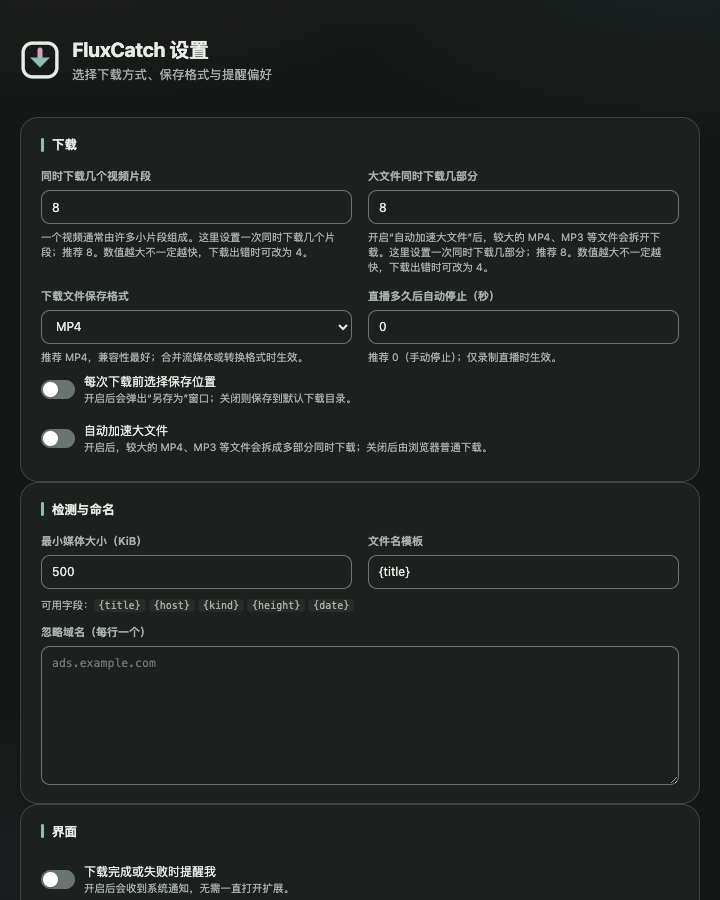
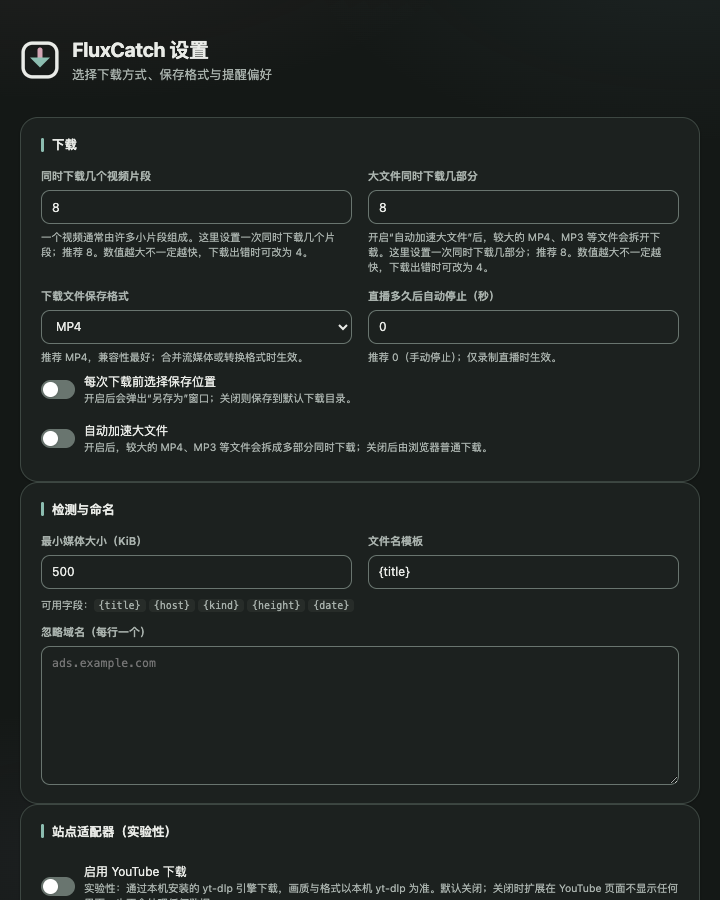
Give the repository a proper storefront
- README: centered brand header with tagline, shields badges, feature
  highlights, site-adapter support table, refreshed screenshots from the
  current UI (tagline, SVG toolbar icons, site-adapter settings), quick
  start, mermaid architecture diagram, and a privacy summary.
- CI workflow: run the extension unit/UI-static tests and manifest
  validation on every push and pull request.
- docs/assets: refresh popup/sidepanel/options screenshots, add the HLS
  download dialog shot and the icon used by the README header.

Changed region(s): [[0.0611, 0.9644, 0.9472, 1.0], [0.0611, 0.9022, 0.2444, 0.9333]]

diff --git a/README.md b/README.md
@@ -1,70 +1,139 @@
+<div align="center">
+
+<img src="docs/assets/icon.png" width="96" alt="FluxCatch logo" />
+
 # FluxCatch
 
-FluxCatch is a local-first Manifest V3 Chrome extension that detects media resources requested by the current page and lets the user save selected files locally. An optional macOS native host adds parallel Range transfers, HLS processing, remuxing, and audio extraction.
+**Keep What You See.**
+
+A local-first Manifest V3 Chrome extension that detects the media a page is
+playing and saves it cleanly — direct files, HLS and DASH streams, with an
+optional macOS native engine for parallel, resumable downloads.
+
+[![Version](https://img.shields.io/badge/version-0.2.3_beta-5E8F84?style=flat-square)](https://github.com/Blanchot-Alice/fluxcatch/releases)
+[![Chrome MV3](https://img.shields.io/badge/Chrome-Manifest_V3-8E82AD?style=flat-square&logo=googlechrome&logoColor=white)](https://developer.chrome.com/docs/extensions/develop/migrate)
+[![License: MIT](https://img.shields.io/badge/license-MIT-C78FA0?style=flat-square)](LICENSE)
+[![Platform](https://img.shields.io/badge/platform-macOS_%2B_Chrome-486D80?style=flat-square)](docs/INSTALL.md)
+[![Tests](https://img.shields.io/github/actions/workflow/status/Blanchot-Alice/fluxcatch/ci.yml?branch=main&label=tests&style=flat-square)](../../actions)
+
+</div>
+
+---
+
+## What it does
+
+FluxCatch watches what the current page actually requests — no scraping, no
+third-party services — and lists every media resource it can identify:
+progressive MP4s, HLS master/variant playlists, MPEG-DASH manifests, and the
+separate video/audio tracks used by modern players. Pick one, pick a quality,
+and the file lands in your Downloads folder.
+
+A optional native host (a small Python program running on your Mac) adds the
+heavy machinery: parallel Range transfers, HLS segment fetching, stream-copy
+merging via FFmpeg, and MP3 extraction. Everything stays on your machine.
+
+| | |
+| --- | --- |
+| 🔍 **Passive detection** | Nothing is requested until you open the popup; detection rides on the page's own traffic. |
+| 📺 **Quality selection** | HLS variants and DASH representations are listed explicitly — including the Bilibili quality ladder your logged-in account can actually play. |
+| ⚡ **Fast transfers** | The native engine splits downloads into concurrent ranges and merges with FFmpeg stream copy. |
+| 🔒 **Local-first privacy** | No telemetry, no accounts, no cloud. Cookies captured for a download only ever travel to the exact CDN URL that received them. |
+| 🛡 **DRM stays DRM** | Protected content is detected and reported, never decrypted. |
+
+## Site adapters
+
+Generic detection covers most of the web. A few sites get first-class support
+because their players need it:
+
+| Site | Status | Notes |
+| --- | --- | --- |
+| **Bilibili** | ✅ Stable | DASH video/audio pairing, opaque quality selectors, login-aware quality ladder (4K with 大会员), short-lived signed URLs kept in memory only. |
+| **Instagram** | ✅ Stable | Direct CDN links extracted from the page payload; private media downloads replay the page's own cookie to the same CDN URL. |
+| **X / Twitter** | ✅ Stable | `video_info` variants extracted in-page; best bitrate surfaced automatically. |
+| **YouTube** | 🧪 Experimental | Off by default. When enabled, the watch URL is handed to your locally installed [yt-dlp](https://github.com/yt-dlp/yt-dlp) — no YouTube URLs or credentials flow anywhere else. |
 
 ## Interface
 
-| Toolbar popup | Media workspace |
-| --- | --- |
-| ![FluxCatch toolbar popup](docs/assets/popup.png) | ![FluxCatch media workspace](docs/assets/sidepanel.png) |
+| Popup | Media workspace | Settings |
+| --- | --- | --- |
+| ![Toolbar popup](docs/assets/popup.png) | ![Side panel](docs/assets/sidepanel.png) | ![Settings](docs/assets/options.png) |
 
-![FluxCatch settings](docs/assets/options.png)
-
-## Current capabilities
-
-- Detect direct video/audio resources from response metadata and media elements.
-- Detect and inspect HLS (`m3u8`) and MPEG-DASH (`mpd`) manifests.
-- Detect the separate DASH video/audio tracks used by supported Bilibili pages and combine a selected quality into one MP4.
-- Select HLS variants and download ordinary VOD playlists concurrently.
-- Use Chrome for ordinary single-file downloads.
-- Use the native host for parallel Range downloads, live HLS capture, remuxing, and MP3 extraction.
-- Keep current-session download jobs visible across popup/service-worker restarts and expose a persistent Side Panel workbench.
-- Reject DRM/SAMPLE-AES/CENC content rather than attempting decryption.
-- Keep observed resource metadata and selected request headers on the local device.
-
-## Release status
-
-Version 0.2.x is beta software. The generic detection and download core is tested; real-site compatibility varies with each player, CDN, authentication scheme, and manifest profile. Current releases do not promise universal site support or a speed advantage over Chrome.
-
-The Chrome Web Store build does not offer downloads from platforms prohibited by store policy. FluxCatch is intended for media that the user owns or is permitted to save. See [Acceptable Use](ACCEPTABLE_USE.md).
+The toolbar badge updates in real time as media is detected — no need to open
+anything. The Side Panel is the persistent workbench for long downloads.
 
 ## Quick start
 
-1. Clone or download this repository.
-2. Open `chrome://extensions`, enable **Developer mode**, choose **Load unpacked**, and select `extension/`.
-3. For advanced downloads on macOS, run:
+**1. Load the extension**
 
-   ```bash
-   ./native-host/install-macos.sh
-   ```
+Clone the repo, open `chrome://extensions`, enable **Developer mode**, click
+**Load unpacked**, and select `extension/`.
 
-4. Reload FluxCatch, open a page that is playing media, and open the toolbar popup. Use **Open media workspace** for the persistent Side Panel.
+**2. (macOS, recommended) Install the native engine**
 
-See [Installation](docs/INSTALL.md) for native-host and Chrome Web Store ID details.
+```bash
+./native-host/install-macos.sh
+```
+
+This registers the native host for Chrome, Chrome for Testing and Chromium,
+pins stable Homebrew paths, and detects FFmpeg. Ordinary single-file downloads
+work without it; accelerated and stream downloads need it.
+
+**3. Use it**
+
+Open a page that's playing media, watch the toolbar badge light up, click the
+FluxCatch icon, and download.
+
+<details>
+<summary>Want YouTube downloads too?</summary>
+
+Install yt-dlp (`brew install yt-dlp`), then open FluxCatch settings →
+**站点适配器（实验性）** → enable the YouTube toggle. YouTube candidates only
+appear while the toggle is on, and quality is whatever your local yt-dlp
+resolves.
+
+</details>
+
+## Architecture
+
+```mermaid
+flowchart LR
+    subgraph Chrome
+        CS["Content script<br/>site payload extraction"] --> BG["Service worker<br/>detection · pairing · badges"]
+        POP["Popup / Side Panel"]
+        BG <--> POP
+    end
+    BG -- "native messaging<br/>1 MiB framed JSON" --> HOST["Native host<br/>Python"]
+    HOST --> RANGES["Parallel Range<br/>transfers"]
+    HOST --> FFMPEG["FFmpeg<br/>merge · remux · MP3"]
+    RANGES --> DL[("Downloads")]
+    FFMPEG --> DL
+```
+
+The extension never holds more than it needs: signed Bilibili track URLs live
+in service-worker memory for at most two minutes, session storage receives
+redacted metadata only, and the native host gets the exact headers and URL for
+the task you started — nothing else. See [Privacy](PRIVACY.md) for the full
+data-flow statement and [Architecture](docs/ARCHITECTURE.md) for the deep dive.
 
 ## Development
 
 ```bash
-npm test
+npm test                                  # extension unit + UI static tests
 python3 -m unittest discover -s native-host/tests -v
-python3 scripts/validate.py
-npm run package
+python3 scripts/validate.py               # manifest + syntax validation
+npm run test:e2e                          # Chrome for Testing detection suite
+npm run package                           # dist/ zips + SHA256SUMS
 ```
-
-A Chrome for Testing detection suite is available through `npm run test:e2e` when a compatible browser binary is installed.
 
 ## Documentation
 
-- [Architecture](docs/ARCHITECTURE.md)
-- [Installation](docs/INSTALL.md)
-- [Release readiness](docs/RELEASE.md)
-- [Chrome Web Store 发布检查单（中文）](docs/CHROME_WEB_STORE_CHECKLIST.zh-CN.md)
-- [Detection E2E](e2e/README.md)
-- [Chrome Web Store listing draft](docs/STORE_LISTING.md)
-- [Privacy](PRIVACY.md)
-- [Security](SECURITY.md)
-- [Contributing](CONTRIBUTING.md)
+- [Installation guide](docs/INSTALL.md) — native host details, store vs. unpacked
+- [Architecture](docs/ARCHITECTURE.md) — detection, pairing, session model
+- [Release readiness](docs/RELEASE.md) and the [Chrome Web Store checklist](docs/CHROME_WEB_STORE_CHECKLIST.zh-CN.md)
+- [Privacy policy](PRIVACY.md) · [Security policy](SECURITY.md) · [Acceptable use](ACCEPTABLE_USE.md)
+- [Detection E2E suite](e2e/README.md) — what the automated browser tests prove (and don't)
 
 ## License
 
-[MIT](LICENSE)
+[MIT](LICENSE) — FluxCatch is intended for media you own or are permitted to
+save. It does not decrypt DRM content or bypass access controls.
